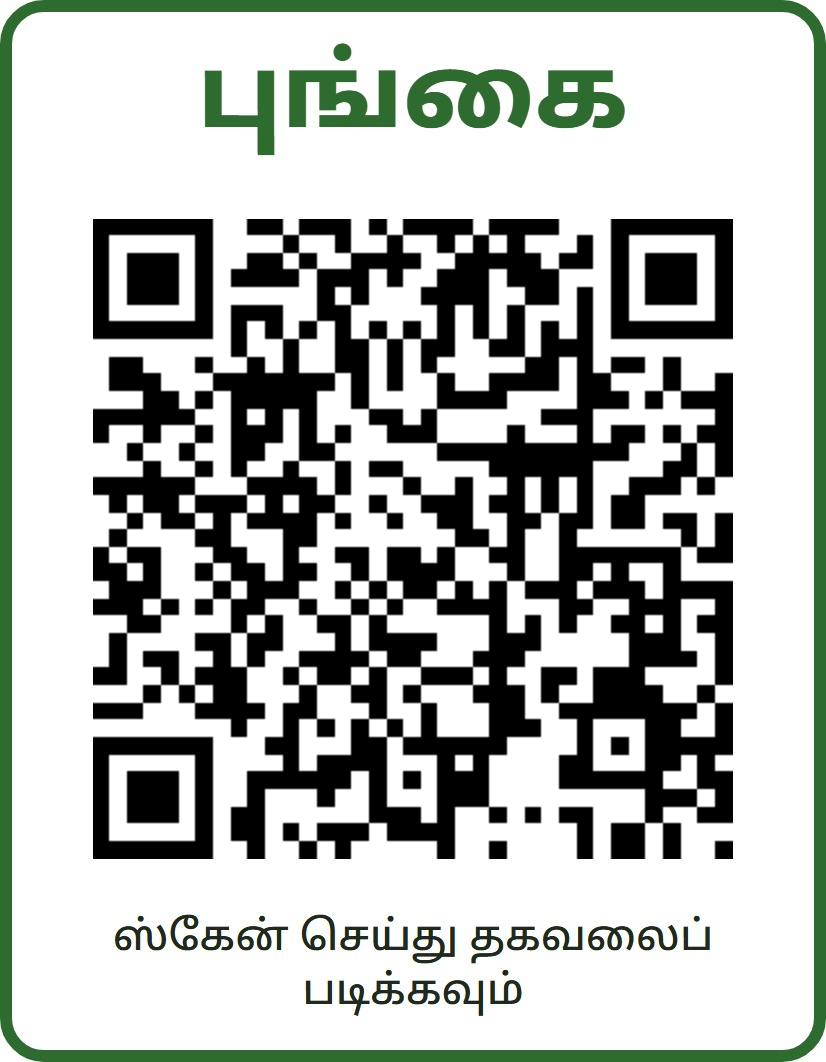
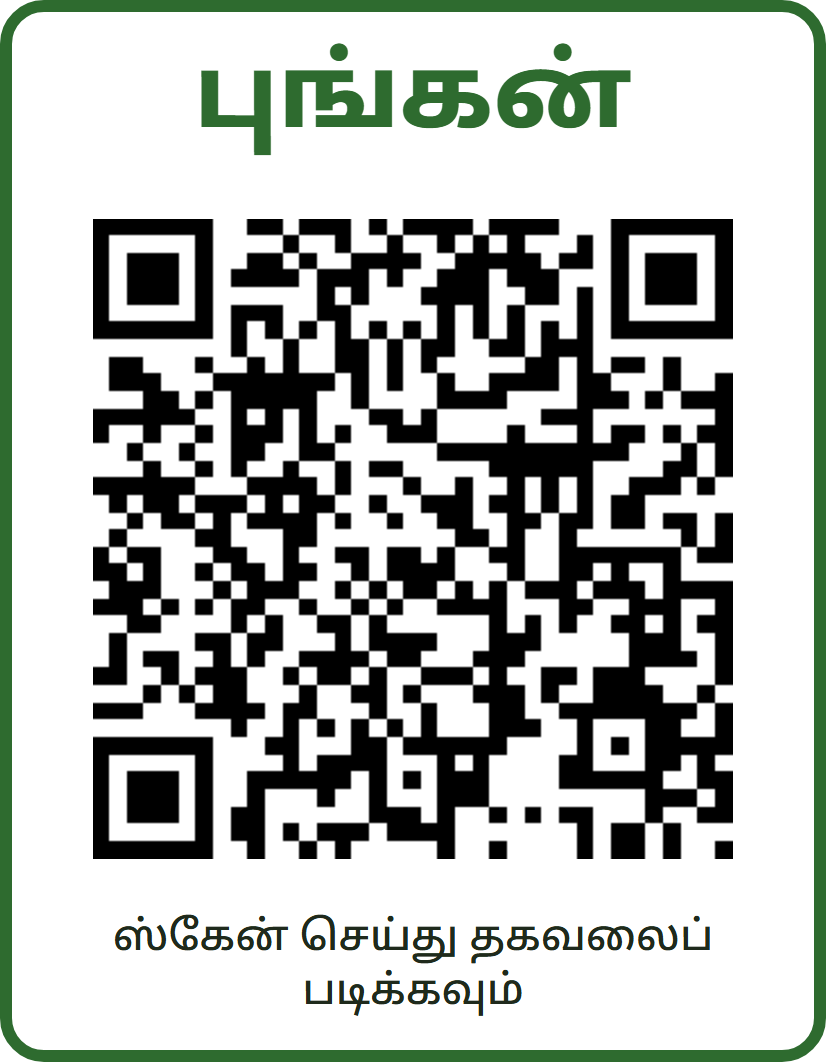
Rename Pungai to Pungan (புங்கன்); sticker updated, link unchanged

Changed region(s): [[0.3027, 0.0311, 0.7567, 0.1554], [0.2421, 0.0621, 0.2724, 0.1243], [0.3935, 0.0311, 0.4237, 0.0621]]

diff --git a/plants/pungu/index.html b/plants/pungu/index.html
@@ -3,7 +3,7 @@
 <head>
 <meta charset="utf-8">
 <meta name="viewport" content="width=device-width, initial-scale=1">
-<title>புங்கை – சித்த மூலிகைக் கண்காட்சி</title>
+<title>புங்கன் – சித்த மூலிகைக் கண்காட்சி</title>
 <link rel="preconnect" href="https://fonts.googleapis.com">
 <link rel="stylesheet" href="https://fonts.googleapis.com/css2?family=Noto+Sans+Tamil:wght@400;600;700&display=swap">
 <link rel="stylesheet" href="../../style.css?v=473b4478">
@@ -12,11 +12,11 @@
 </head>
 <body>
 <header class="hero">
-  <h1>புங்கை</h1>
+  <h1>புங்கன்</h1>
   <p class="sub">Indian Beech · <i>Pongamia pinnata</i></p>
 </header>
 <main>
-<figure class="photo"><img src="../../images/pungu.jpg" alt="புங்கை" width="100%" loading="eager"><figcaption>படம்: J.M.Garg · CC BY 3.0 · <a href="https://commons.wikimedia.org/wiki/File:Pongamia_pinnata_(Karanj)_near_Hyderabad_W_IMG_7633.jpg" target="_blank" rel="noopener">Wikimedia Commons</a></figcaption></figure>
+<figure class="photo"><img src="../../images/pungu.jpg" alt="புங்கன்" width="100%" loading="eager"><figcaption>படம்: J.M.Garg · CC BY 3.0 · <a href="https://commons.wikimedia.org/wiki/File:Pongamia_pinnata_(Karanj)_near_Hyderabad_W_IMG_7633.jpg" target="_blank" rel="noopener">Wikimedia Commons</a></figcaption></figure>
 <section class="note"><h2>🌿 சித்த மருத்துவக் குறிப்பு:</h2><p>புங்கம் எண்ணெய், சொறி, சிரங்கு, கரப்பான் போன்ற தோல் நோய்களுக்கான சித்த மருந்துகளில் வெளிப்பூச்சு மருந்தாகப் பயன்படுகிறது. புங்கம் குச்சியால் பல் துலக்குவதும் பழைய வழக்கம்.</p><p class="note-warn">⚠ விதைகளும் எண்ணெயும் நச்சுத்தன்மை உடையவை – உள்ளுக்குச் சாப்பிடக் கூடாது.</p></section>
 <h2 class="facts-heading">உங்களுக்குத் தெரியுமா?</h2>
 <section class="fact"><h3><span class="num">1</span>கோடையில் துளிர்க்கும் நிழல் மரம்</h3><p>கடும் கோடையில்தான் புதிய தளிர்கள் விட்டு அடர்ந்த குளிர் நிழல் தருவதால், சாலையோரங்களிலும் கோயில்களிலும் விரும்பி நடப்படுகிறது.</p></section>

diff --git a/plants/index.html b/plants/index.html
@@ -23,7 +23,7 @@
 <li><a href="malaivembu/"><span class="names"><strong>மலைவேம்பு</strong><span>Malai Vembu</span></span><span class="chev" aria-hidden="true">›</span></a></li>
 <li><a href="aadathodai/"><span class="names"><strong>ஆடாதோடை</strong><span>Malabar Nut</span></span><span class="chev" aria-hidden="true">›</span></a></li>
 <li><a href="aamanaku/"><span class="names"><strong>ஆமணக்கு</strong><span>Castor</span></span><span class="chev" aria-hidden="true">›</span></a></li>
-<li><a href="pungu/"><span class="names"><strong>புங்கை</strong><span>Indian Beech</span></span><span class="chev" aria-hidden="true">›</span></a></li>
+<li><a href="pungu/"><span class="names"><strong>புங்கன்</strong><span>Indian Beech</span></span><span class="chev" aria-hidden="true">›</span></a></li>
 <li><a href="kuppaimeni/"><span class="names"><strong>குப்பைமேனி</strong><span>Indian Acalypha</span></span><span class="chev" aria-hidden="true">›</span></a></li>
 <li><a href="katralai/"><span class="names"><strong>கற்றாழை</strong><span>Aloe Vera</span></span><span class="chev" aria-hidden="true">›</span></a></li>
 <li><a href="seemaiagathi/"><span class="names"><strong>சீமை அகத்தி</strong><span>Candle Bush</span></span><span class="chev" aria-hidden="true">›</span></a></li>

diff --git a/README.md b/README.md
@@ -15,7 +15,7 @@ Visitors scan the QR sticker on a plant's board and their phone opens that plant
 | 3 | மலைவேம்பு | malaivembu |
 | 4 | ஆடாதோடை | aadathodai |
 | 5 | ஆமணக்கு | aamanaku |
-| 6 | புங்கை | pungu |
+| 6 | புங்கன் | pungu |
 | 7 | குப்பைமேனி | kuppaimeni |
 | 8 | கற்றாழை | katralai |
 | 9 | சீமை அகத்தி | seemaiagathi |
